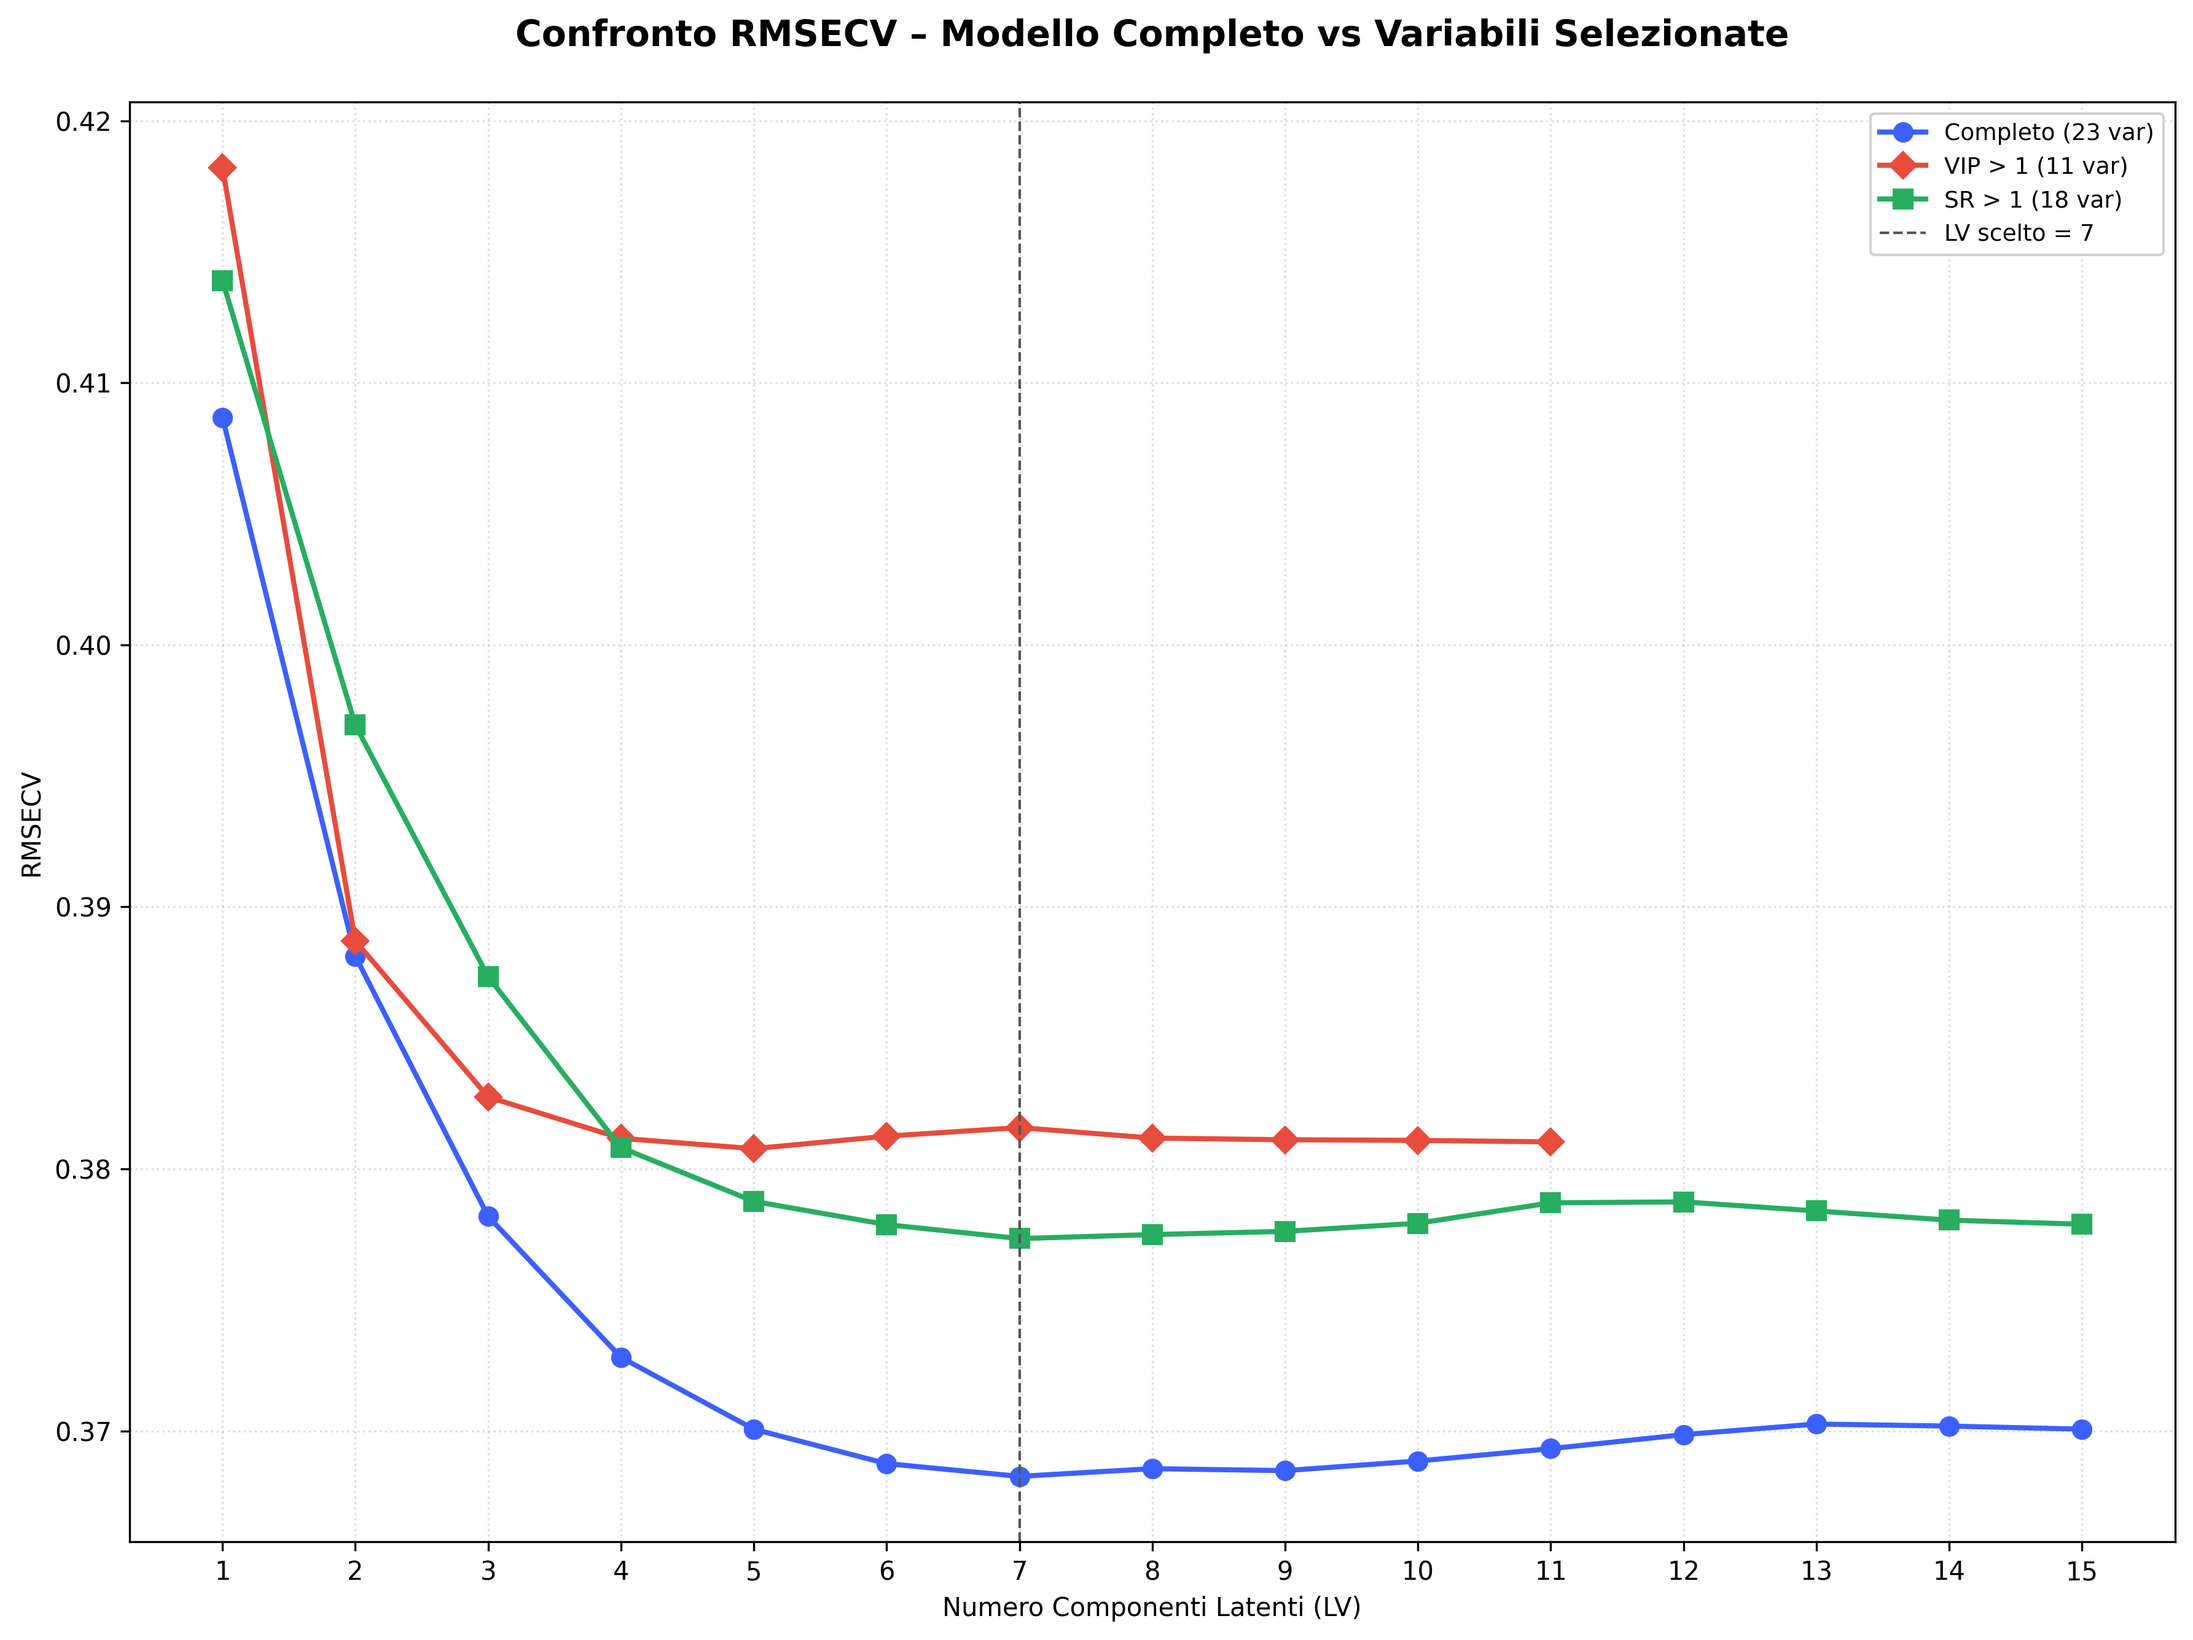
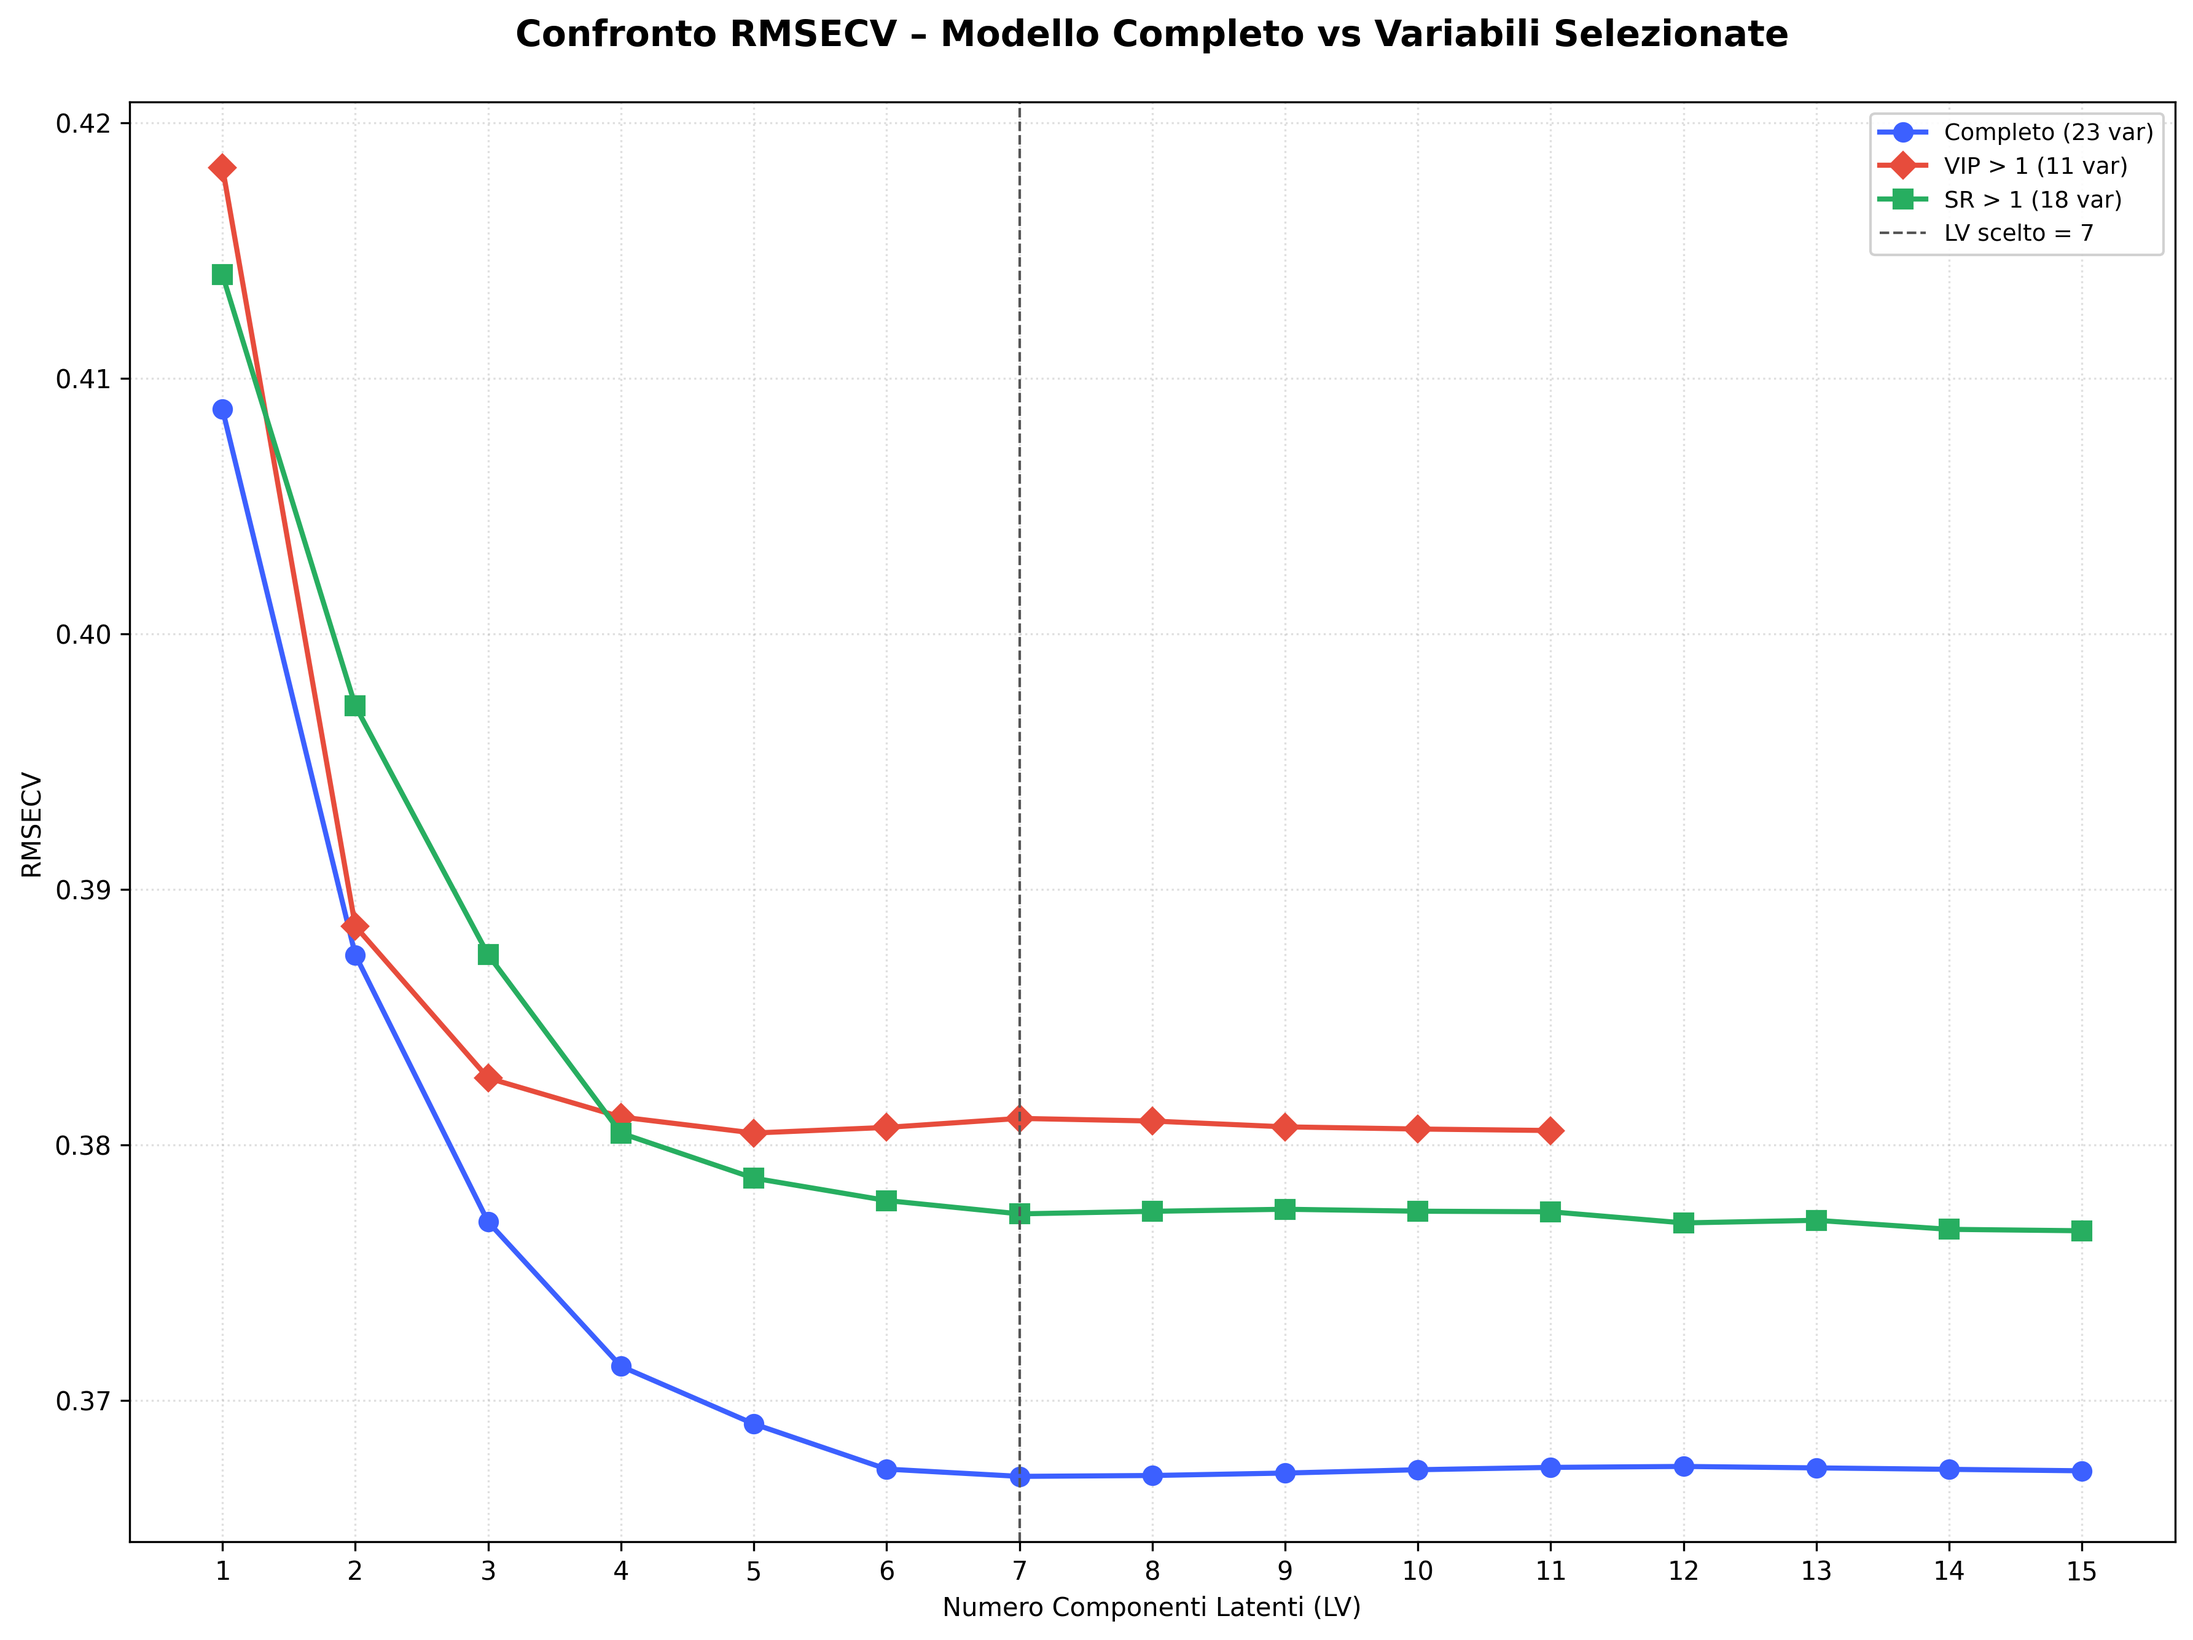
Modifiche

diff --git a/Progetto/plots.py b/Progetto/plots.py
@@ -429,12 +429,13 @@ def compute_cv_scan(X, y_dummy, y_class, max_components=15, cv_folds=10):
     tramite 10-Fold CV, per generare il grafico di selezione.
     """
     max_possible = min(max_components, X.shape[1])
-    kf = KFold(n_splits=cv_folds, shuffle=True, random_state=42)
+    kf = StratifiedKFold(n_splits=cv_folds, shuffle=True, random_state=42)
+    splits = list(kf.split(X, y_class))
     results = []
 
     for n_comp in range(1, max_possible + 1):
         pls = PLSRegression(n_components=n_comp, scale=False)
-        y_pred_cv = cross_val_predict(pls, X, y_dummy, cv=kf)
+        y_pred_cv = cross_val_predict(pls, X, y_dummy, cv=splits)
 
         y_pred_class = np.argmax(y_pred_cv, axis=1) + 1
         bacc = balanced_accuracy_score(y_class, y_pred_class)

diff --git a/Progetto/versione_ibrida/plots.py b/Progetto/versione_ibrida/plots.py
@@ -429,12 +429,13 @@ def compute_cv_scan(X, y_dummy, y_class, max_components=15, cv_folds=10):
     tramite 10-Fold CV, per generare il grafico di selezione.
     """
     max_possible = min(max_components, X.shape[1])
-    kf = KFold(n_splits=cv_folds, shuffle=True, random_state=42)
+    kf = StratifiedKFold(n_splits=cv_folds, shuffle=True, random_state=42)
+    splits = list(kf.split(X, y_class))
     results = []
 
     for n_comp in range(1, max_possible + 1):
         pls = PLSRegression(n_components=n_comp, scale=False)
-        y_pred_cv = cross_val_predict(pls, X, y_dummy, cv=kf)
+        y_pred_cv = cross_val_predict(pls, X, y_dummy, cv=splits)
 
         y_pred_class = np.argmax(y_pred_cv, axis=1) + 1
         bacc = balanced_accuracy_score(y_class, y_pred_class)
